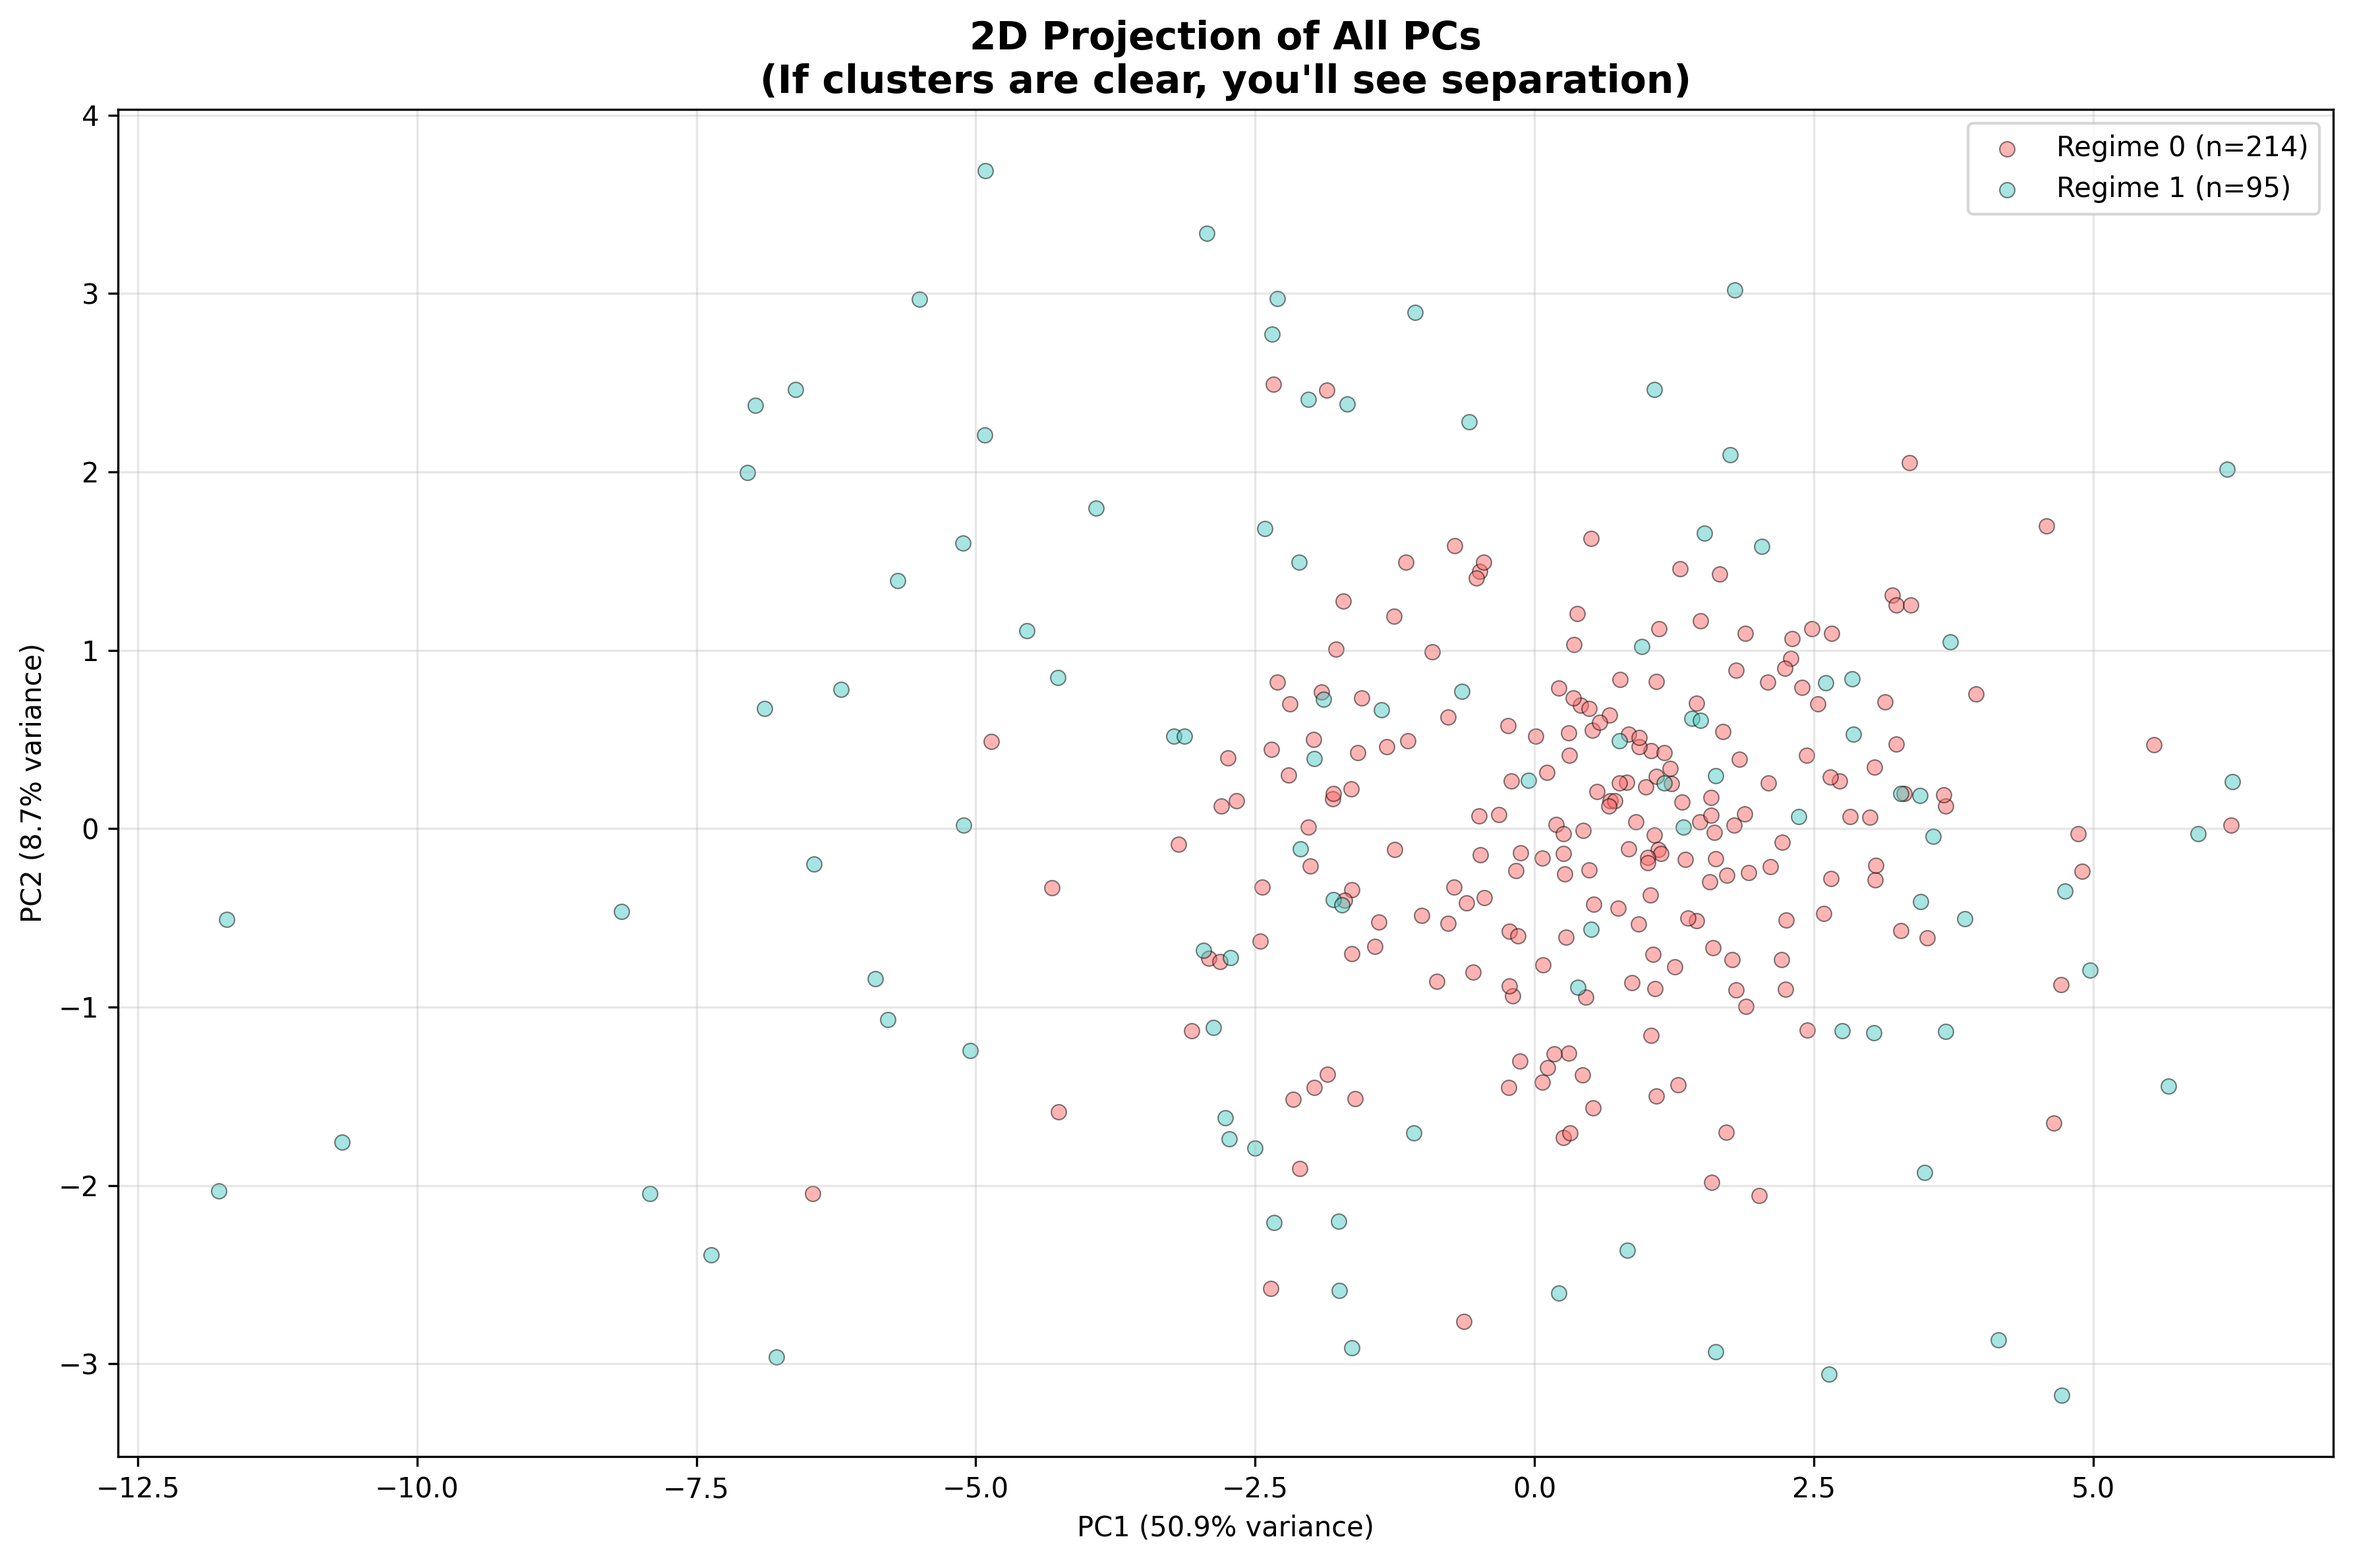
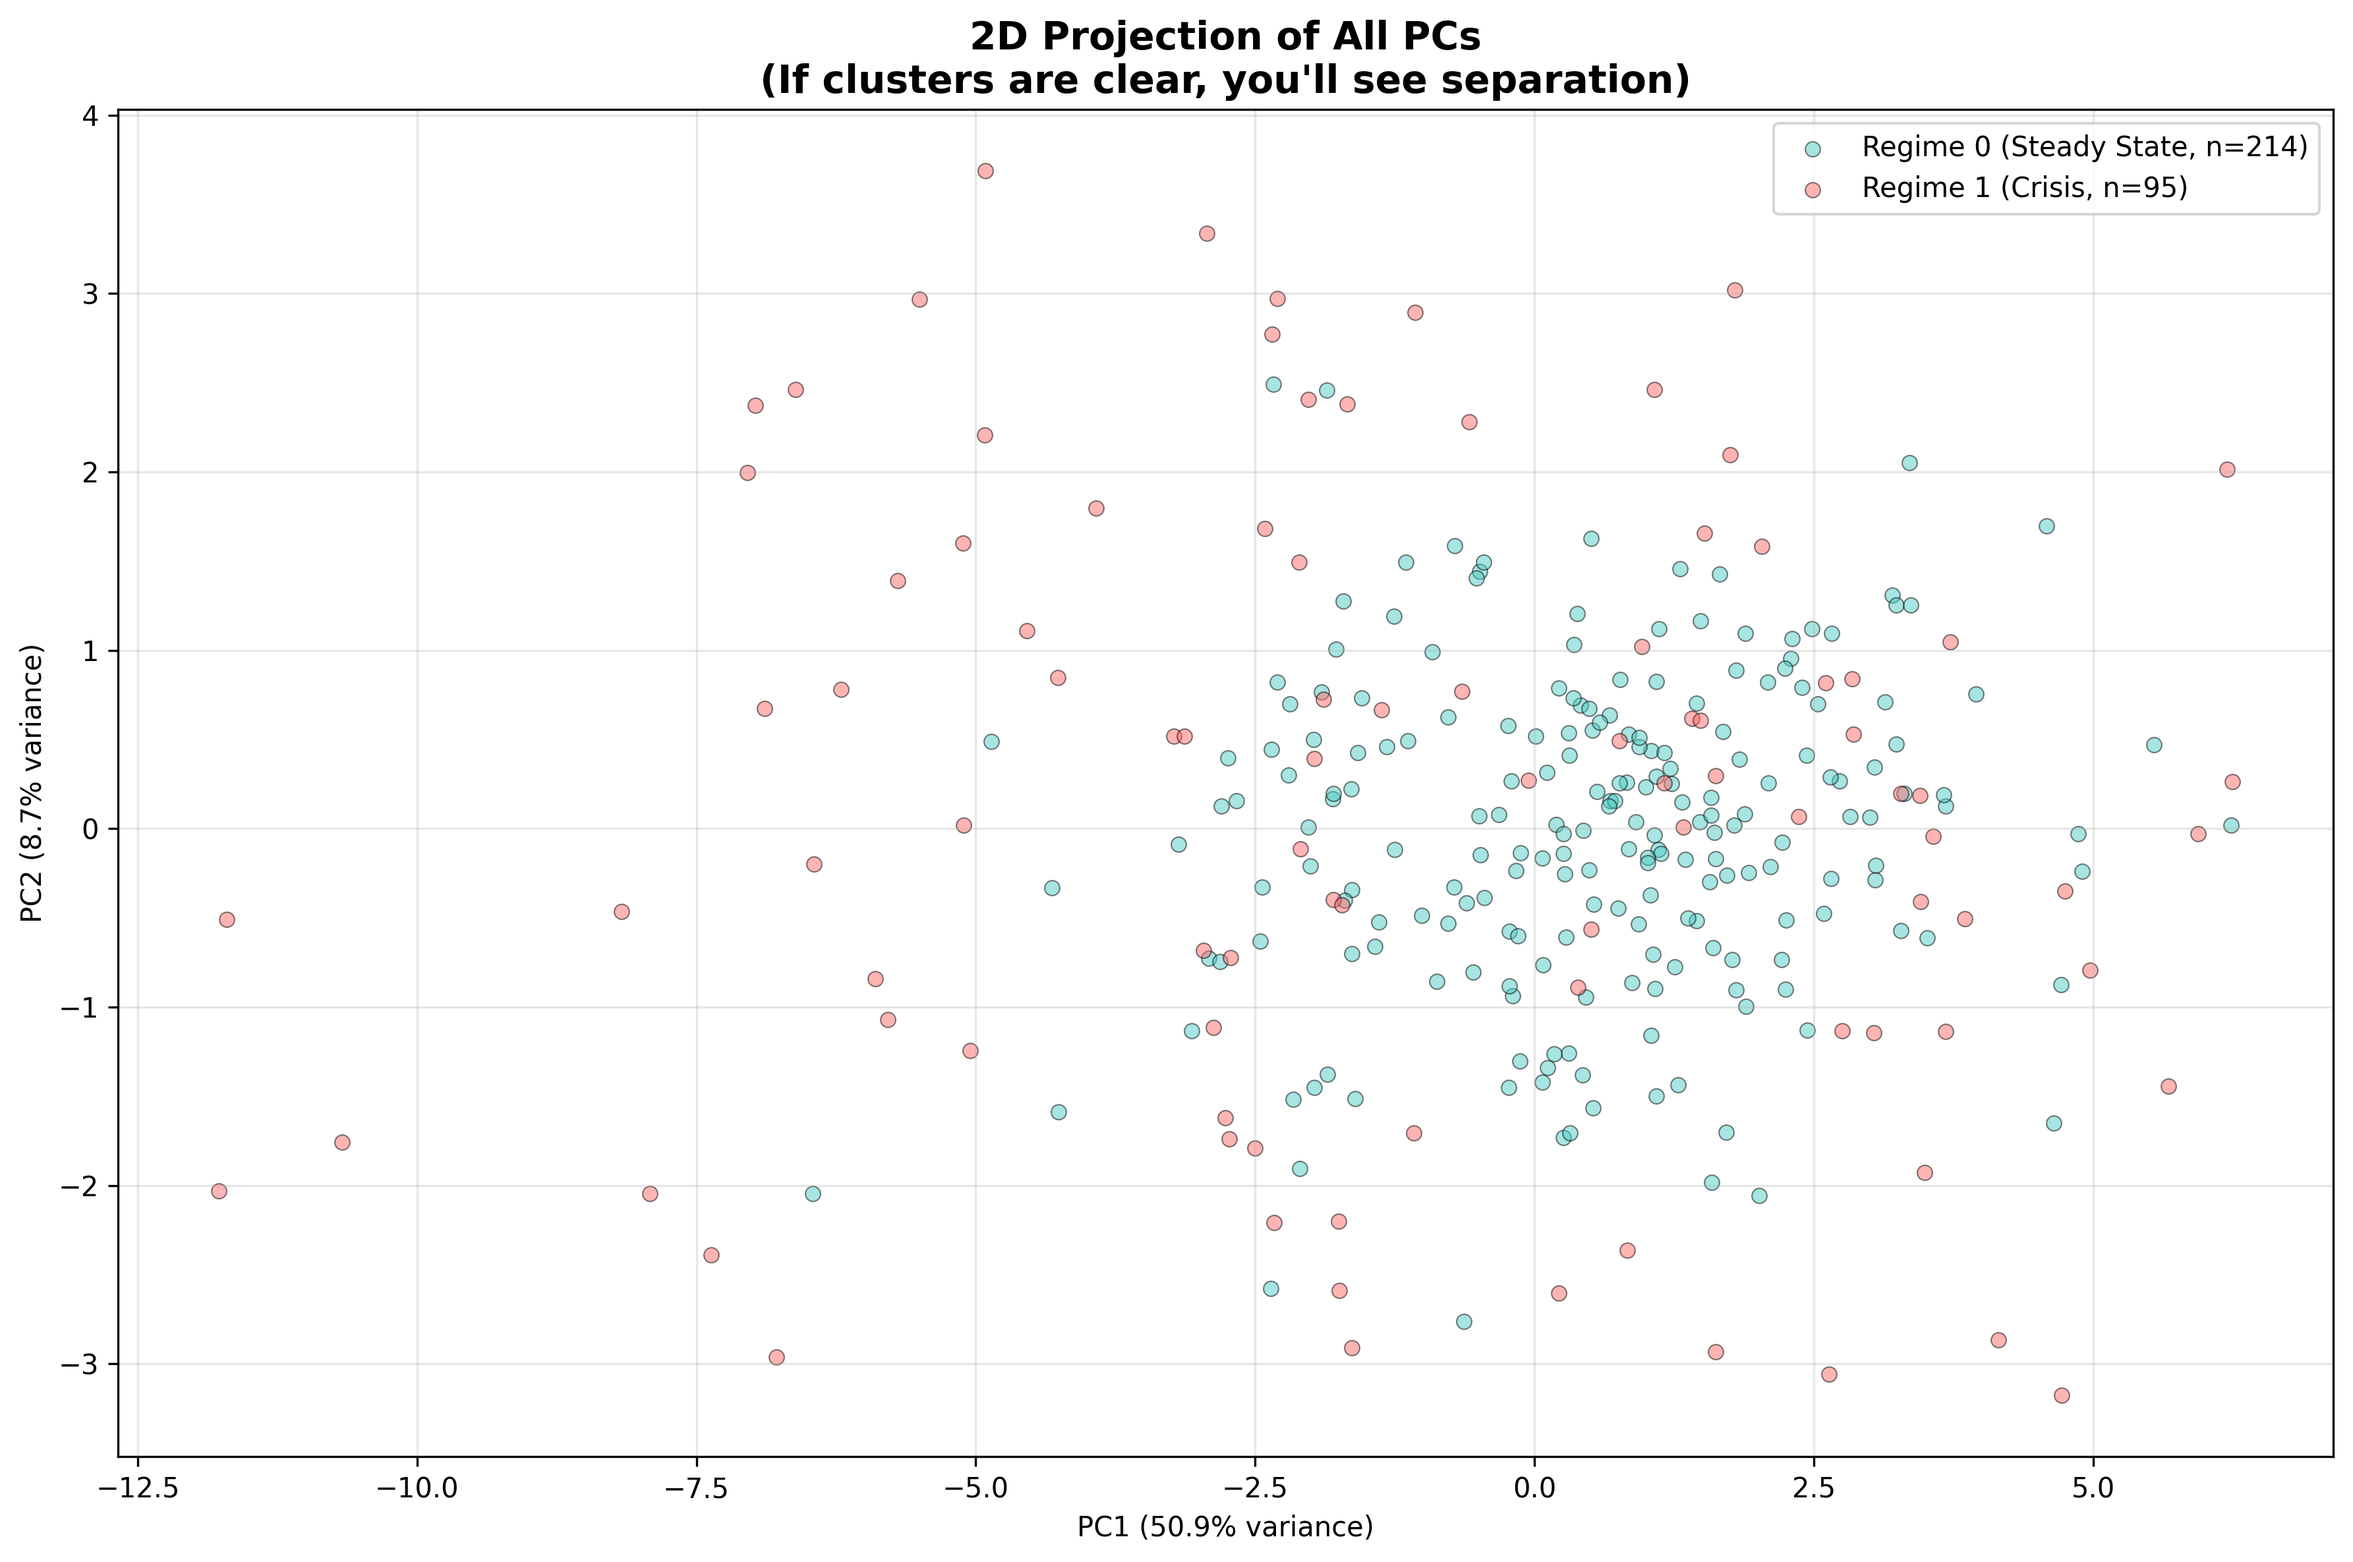
Updated with final results

diff --git a/simple_diagnostics.py b/simple_diagnostics.py
@@ -37,7 +37,7 @@ def plot_top_pcs_over_time(pca_wide, regimes):
     
     fig, axes = plt.subplots(len(pc_cols), 1, figsize=(20, 3*len(pc_cols)))
     
-    colors = ['#FF6B6B', '#4ECDC4', '#45B7D1']
+    colors = ['#4ECDC4', '#FF6B6B']  # 0=Teal (Steady), 1=Red (Crisis)
     
     for idx, pc in enumerate(pc_cols):
         ax = axes[idx]
@@ -80,7 +80,7 @@ def plot_top_pcs_over_time(pca_wide, regimes):
                       linewidth=0, zorder=1)
         
         ax.set_ylabel(pc.replace('_PC1', ''), fontweight='bold', fontsize=12)
-        ax.set_title(f'{pc.replace("_PC1", "")} Over Time\n(Background: Red=Crisis, Teal=Bull, Blue=Transition)', 
+        ax.set_title(f'{pc.replace("_PC1", "")} Over Time\n(Background: Teal=Steady State, Red=Crisis)', 
                     fontweight='bold', fontsize=11)
         ax.grid(True, alpha=0.3)
         ax.set_xlim(gmm_start, pca_wide.index.max())
@@ -89,9 +89,8 @@ def plot_top_pcs_over_time(pca_wide, regimes):
         if idx == 0:
             from matplotlib.patches import Patch
             legend_elements = [
-                Patch(facecolor='#FF6B6B', alpha=0.25, label='Regime 0 (Crisis)'),
-                Patch(facecolor='#4ECDC4', alpha=0.25, label='Regime 1 (Bull)'),
-                Patch(facecolor='#45B7D1', alpha=0.25, label='Regime 2 (Transition)')
+                Patch(facecolor='#4ECDC4', alpha=0.25, label='Regime 0 (Steady State)'),
+                Patch(facecolor='#FF6B6B', alpha=0.25, label='Regime 1 (Crisis)')
             ]
             ax.legend(handles=legend_elements, loc='upper right', fontsize=9)
         
@@ -220,13 +219,14 @@ def plot_2d_view(pca_wide, regimes):
     
     fig, ax = plt.subplots(figsize=(12, 8))
     
-    colors = ['#FF6B6B', '#4ECDC4', '#45B7D1']
+    colors = ['#4ECDC4', '#FF6B6B']  # 0=Teal (Steady), 1=Red (Crisis)
     
     for regime in sorted(np.unique(y)):
         mask = y == regime
+        regime_label = 'Steady State' if regime == 0 else 'Crisis'
         ax.scatter(X_2d[mask, 0], X_2d[mask, 1],
                    alpha=0.5, s=30, color=colors[regime],
-                   label=f'Regime {regime} (n={mask.sum()})',
+                   label=f'Regime {regime} ({regime_label}, n={mask.sum()})',
                    edgecolors='black', linewidth=0.5)
     
     ax.set_xlabel(f'PC1 ({pca.explained_variance_ratio_[0]*100:.1f}% variance)')

diff --git a/README.md b/README.md
@@ -43,13 +43,13 @@ The approach is inspired by institutional quantitative research methods, particu
 
 ### Two Distinct Volatility Regimes Identified
 
-**Regime 0: Calm/Goldilocks (~35% of time)**
+**Regime 0: Calm/Steady State (~65% of time)**
 - Low volatility across all asset classes (std ~0.5-1.0)
 - Equity Short Volatility mean: -0.28 (suppressed vol)
 - Tight price ranges, predictable behavior
 - Examples: Mid-2000s, 2017-2018, parts of 2019 and 2023
 
-**Regime 1: Volatile/Crisis (~65% of time)**
+**Regime 1: Volatile/Crisis (~35% of time)**
 - High volatility across all factors (std ~1.4-1.8, **2-3x higher**)
 - Equity Short Volatility mean: +1.00 (elevated vol)
 - Negative equity returns (mean: -0.43)
@@ -59,7 +59,7 @@ The approach is inspired by institutional quantitative research methods, particu
 ### Validation Metrics
 - **Silhouette Score: 0.192** (good for financial data)
 - **BIC selects K=2** (clear evidence for two regimes)
-- **Correlation difference: 0.154** (strong evidence regimes are real, not noise)
+- **Correlation difference: 0.173** (strong evidence regimes are real, not noise)
 - **Key regime driver: Trend Following** - correlation with risk assets flips from -0.47 (crisis) to +0.31 (bull)
 
 ### Economic Interpretation
@@ -296,6 +296,10 @@ All factor categories meet statistical requirements:
 ### Regime Probabilities
 ![Regime Probability Evolution](gmm_plots/regime_timeseries.png)
 *Probabilities of regimes over time.*
+
+### PC Behavior in Different Regimes
+![Regime Probability Evolution](gmm_plots/pcs_over_time.png)
+*How PC groups behave over the two regimes, highlighted by greater variance in Crisis states.*
 
 ### Correlation Validation
 ![Correlation by Regime](gmm_plots/correlation_by_regime.png)
